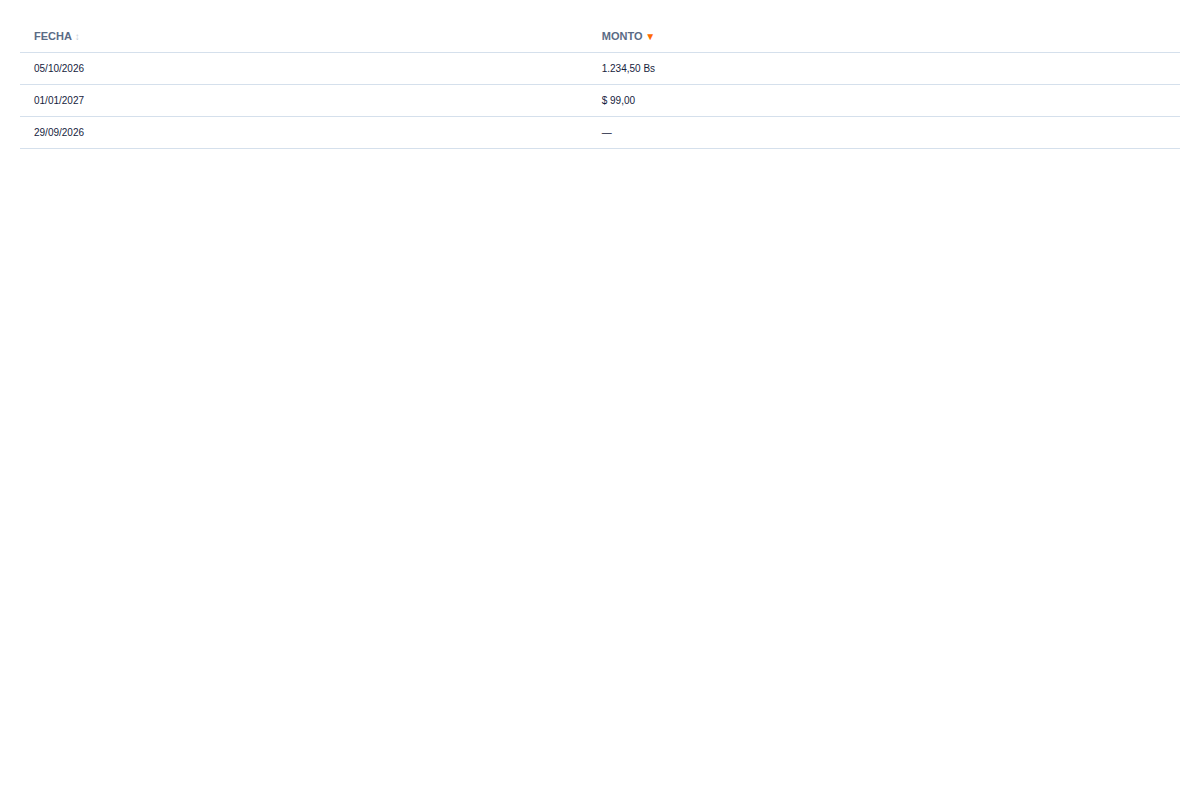
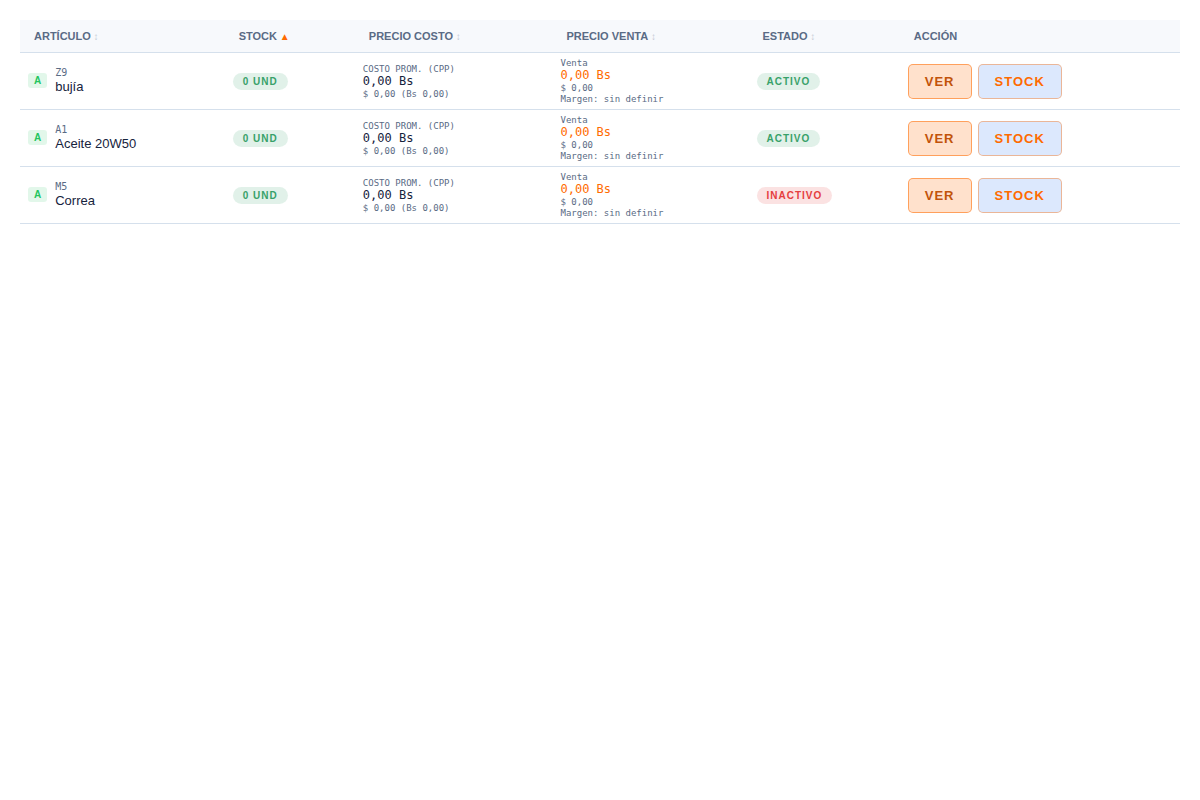
Ordenamiento por columnas en todo el sistema (v20260909259)
El ordenador de Inventario General pasa a ser global (document.body):
todo listado con encabezados se ordena con clic (▲/▼), en módulos, fichas
y modales. Se excluyen tablas editables, las que ya tienen su propio
orden (th con onclick) y las marcadas data-sin-orden (Libro Mayor y
Conciliación, cuyo Saldo es acumulado). Las filas de TOTAL quedan fijas.

Claude-Session: https://claude.ai/code/session_018iWtUxPfhyiXj337UuERJE

diff --git a/js/core.js b/js/core.js
@@ -1,6 +1,6 @@
 // ─── S&D Systems — Módulo: CORE ───
 
-const SYD_VERSION = '20260909258';
+const SYD_VERSION = '20260909259';
 // Re-trigger de build (por si el anterior quedó atascado/desactualizado en Cloudflare)
 // Re-trigger de build (timeout de infraestructura en el build anterior, no relacionado al código)
 console.log('%c S&D Systems %c v' + SYD_VERSION + ' ', 
@@ -3881,7 +3881,9 @@ function _ordenColAplicar(tabla, col, dir) {
   const grupos = []; let actual = { sep: null, filas: [] };
   filas.forEach(function(tr) {
     const celdas = _ordenColCeldas(tr);
-    const esSep = !celdas[col];
+    // Separadores: filas de grupo (colspan) y filas de totales, que se
+    // quedan fijas en su lugar
+    const esSep = !celdas[col] || /^(sub)?total(es)?\b/i.test((tr.cells[0] && tr.cells[0].textContent || '').trim());
     if (esSep) { grupos.push(actual); actual = { sep: tr, filas: [] }; }
     else actual.filas.push({ tr: tr, txt: _ordenColValor(celdas[col]) });
   });
@@ -3913,9 +3915,23 @@ function _ordenColAplicar(tabla, col, dir) {
   _ordenColObservers.forEach(function(o) { o.takeRecords(); });
 }
 
+// Una tabla se ordena solo si es de consulta: no es editable (sin campos
+// de captura en sus filas), no trae su propio ordenamiento (th con
+// onclick) y no está marcada con data-sin-orden.
+function _ordenColElegible(tabla) {
+  if (!tabla.tHead || !tabla.tBodies[0] || !tabla.tHead.rows.length) return false;
+  if (tabla.hasAttribute('data-sin-orden') || tabla.closest('[data-sin-orden]')) return false;
+  if (tabla.tHead.querySelector('th[onclick]')) return false;
+  if (tabla.tBodies[0].querySelector('input:not([type="hidden"]),select,textarea,[contenteditable="true"]')) return false;
+  return true;
+}
+
 function _ordenColPreparar(cont) {
   cont.querySelectorAll('table').forEach(function(tabla) {
-    if (!tabla.tHead || !tabla.tBodies[0] || !tabla.tHead.rows.length) return;
+    if (!_ordenColElegible(tabla)) {
+      if (tabla.tHead) tabla.tHead.querySelectorAll('th.th-ordenable').forEach(function(th) { th.classList.remove('th-ordenable'); th.removeAttribute('data-orden-dir'); });
+      return;
+    }
     const fila = tabla.tHead.rows[tabla.tHead.rows.length - 1];
     Array.prototype.forEach.call(fila.cells, function(th) {
       const txt = th.textContent.trim();
@@ -3934,16 +3950,20 @@ function activarOrdenColumnas(cont) {
       + 'th.th-ordenable:hover{color:var(--naranja) !important}'
       + 'th.th-ordenable::after{content:" \\2195";opacity:.35;font-size:10px}'
       + 'th.th-ordenable[data-orden-dir="asc"]::after{content:" \\25B2";opacity:1;color:var(--naranja)}'
-      + 'th.th-ordenable[data-orden-dir="desc"]::after{content:" \\25BC";opacity:1;color:var(--naranja)}';
+      + 'th.th-ordenable[data-orden-dir="desc"]::after{content:" \\25BC";opacity:1;color:var(--naranja)}'
+      + '@media print{th.th-ordenable::after{content:none !important}}';
     document.head.appendChild(st);
   }
   _ordenColPreparar(cont);
   if (cont._ordenActivo) return;
   cont._ordenActivo = true;
   cont.addEventListener('click', function(e) {
+    if (e._ordenManejado) return; // contenedores anidados: se ordena una sola vez
     const th = e.target.closest && e.target.closest('th.th-ordenable');
     if (!th || !cont.contains(th)) return;
+    e._ordenManejado = true;
     const tabla = th.closest('table');
+    if (!_ordenColElegible(tabla)) return;
     const col = Array.prototype.indexOf.call(th.parentNode.cells, th);
     const clave = _ordenColClave(tabla);
     const previo = _ordenColEstado[clave];
@@ -3955,6 +3975,14 @@ function activarOrdenColumnas(cont) {
   const obs = new MutationObserver(function() { _ordenColPreparar(cont); });
   obs.observe(cont, { childList: true, subtree: true });
   _ordenColObservers.push(obs);
+}
+
+// Activo en TODO el sistema: cualquier listado con encabezados (módulos,
+// fichas y modales de consulta) se puede ordenar con clic en la columna.
+if (typeof document !== 'undefined') {
+  const _activarOrdenGlobal = function() { activarOrdenColumnas(document.body); };
+  if (document.body) _activarOrdenGlobal();
+  else document.addEventListener('DOMContentLoaded', _activarOrdenGlobal);
 }
 
 function emisorQ() {

diff --git a/js/contabilidad.js b/js/contabilidad.js
@@ -826,7 +826,8 @@ async function contCargarMayor() {
           + '<th style="padding:7px;text-align:right;border-bottom:1px solid var(--borde);font-size:11px">Debe ' + monedaRef + '</th>'
           + '<th style="padding:7px;text-align:right;border-bottom:1px solid var(--borde);font-size:11px">Haber ' + monedaRef + '</th>'
           + '<th style="padding:7px;text-align:right;border-bottom:1px solid var(--borde);font-size:11px">Saldo ' + monedaRef + '</th>';
-        return '<table style="width:100%;border-collapse:collapse"><thead><tr>' + headers + '</tr></thead>'
+        // data-sin-orden: el Saldo es acumulado, solo tiene sentido en orden cronológico
+        return '<table data-sin-orden style="width:100%;border-collapse:collapse"><thead><tr>' + headers + '</tr></thead>'
           + '<tbody>' + filas.join('') + '</tbody>'
           + '<tfoot><tr style="border-top:2px solid var(--borde)">'
           + '<td colspan="3" style="padding:8px;font-weight:700">SALDO FINAL</td>'
@@ -901,7 +902,7 @@ async function contCargarMayor() {
           + '<div style="font-family:var(--font-mono);color:var(--naranja)">' + (cInfo ? escapeHtml(cInfo.codigo + ' — ' + cInfo.nombre) : 'Cuenta #'+cid) + '</div>'
           + '<div style="font-size:11px;color:var(--suave)">' + (cInfo ? cInfo.naturaleza + ' · ' + cInfo.tipo : '') + '</div>'
           + '</div>'
-          + '<table style="width:100%;border-collapse:collapse"><thead><tr>'
+          + '<table data-sin-orden style="width:100%;border-collapse:collapse"><thead><tr>'
           + '<th style="padding:7px;text-align:left;border-bottom:1px solid var(--borde);font-size:11px">Fecha</th>'
           + '<th style="padding:7px;text-align:left;border-bottom:1px solid var(--borde);font-size:11px">Asiento</th>'
           + '<th style="padding:7px;text-align:left;border-bottom:1px solid var(--borde);font-size:11px">Descripción</th>'
@@ -2435,7 +2436,7 @@ async function contIniciarConciliacion() {
     + '<input type="number" id="cont-conc-saldo-banco" placeholder="0.00" step="0.01" style="width:100%;background:var(--gris3);border:1px solid var(--naranja);color:var(--naranja);font-family:var(--font-display);font-size:22px;padding:8px 12px;border-radius:5px;outline:none;font-weight:700" onchange="contActualizarDiferencia(' + saldoLibros + ')">'
     + '<div id="cont-conc-dif" style="margin-top:6px;font-size:12px;color:var(--suave)">Diferencia: —</div>'
     + '</div></div>'
-    + '<div class="tabla-container" style="max-height:max(200px, calc(100vh - 440px))"><table style="table-layout:fixed;width:100%"><thead><tr>'
+    + '<div class="tabla-container" style="max-height:max(200px, calc(100vh - 440px))"><table data-sin-orden style="table-layout:fixed;width:100%"><thead><tr>'
     + '<th>Fecha</th><th>Asiento</th><th>Descripción</th><th style="text-align:right">Debe</th><th style="text-align:right">Haber</th><th style="text-align:right">Saldo Acum.</th>'
     + '</tr></thead><tbody>'
     + (filas.length ? filas.join('') : '<tr><td colspan="6" style="text-align:center;padding:32px;color:var(--suave)">Sin movimientos en este período.</td></tr>')

diff --git a/index.html b/index.html
@@ -1591,19 +1591,19 @@
 <script src="https://cdnjs.cloudflare.com/ajax/libs/xlsx/0.18.5/xlsx.full.min.js"></script>
 <script src="https://cdnjs.cloudflare.com/ajax/libs/jspdf/2.5.1/jspdf.umd.min.js"></script>
 <script src="https://cdnjs.cloudflare.com/ajax/libs/jspdf-autotable/3.8.2/jspdf.plugin.autotable.min.js"></script>
-<script src="js/core.js?v=20260909258"></script>
-<script src="js/parametros.js?v=20260909258"></script>
-<script src="js/empresas.js?v=20260909258"></script>
-<script src="js/ingresos.js?v=20260909258"></script>
-<script src="js/inventario.js?v=20260909258"></script>
-<script src="js/proveedores.js?v=20260909258"></script>
-<script src="js/ventas.js?v=20260909258"></script>
-<script src="js/contabilidad.js?v=20260909258"></script>
-<script src="js/egresos.js?v=20260909258"></script>
-<script src="js/vehiculos.js?v=20260909258"></script>
-<script src="js/catalogo.js?v=20260909258"></script>
-<script src="js/ordenes.js?v=20260909258"></script>
-<script src="js/reportes.js?v=20260909258"></script>
+<script src="js/core.js?v=20260909259"></script>
+<script src="js/parametros.js?v=20260909259"></script>
+<script src="js/empresas.js?v=20260909259"></script>
+<script src="js/ingresos.js?v=20260909259"></script>
+<script src="js/inventario.js?v=20260909259"></script>
+<script src="js/proveedores.js?v=20260909259"></script>
+<script src="js/ventas.js?v=20260909259"></script>
+<script src="js/contabilidad.js?v=20260909259"></script>
+<script src="js/egresos.js?v=20260909259"></script>
+<script src="js/vehiculos.js?v=20260909259"></script>
+<script src="js/catalogo.js?v=20260909259"></script>
+<script src="js/ordenes.js?v=20260909259"></script>
+<script src="js/reportes.js?v=20260909259"></script>
 <script src="https://challenges.cloudflare.com/turnstile/v0/api.js?render=explicit&onload=_onTurnstileListo" async defer></script>
 
 <!-- ═══════════════════════════════════════ -->

diff --git a/js/inventario.js b/js/inventario.js
@@ -391,7 +391,6 @@ async function renderInventario(filtro) {
   }
   const tablaCont = document.getElementById('tabla-inv-cont');
   if (tablaCont) tablaCont.innerHTML = '<div class="loading"><div class="spinner"></div> Cargando...</div>';
-  activarOrdenColumnas(tablaCont);
   // Si estamos en vista movimientos, no recargar la tabla
   if (_invVista === 'movimientos' || _invVista === 'categorias' || _invVista === 'tipos') return;
 
